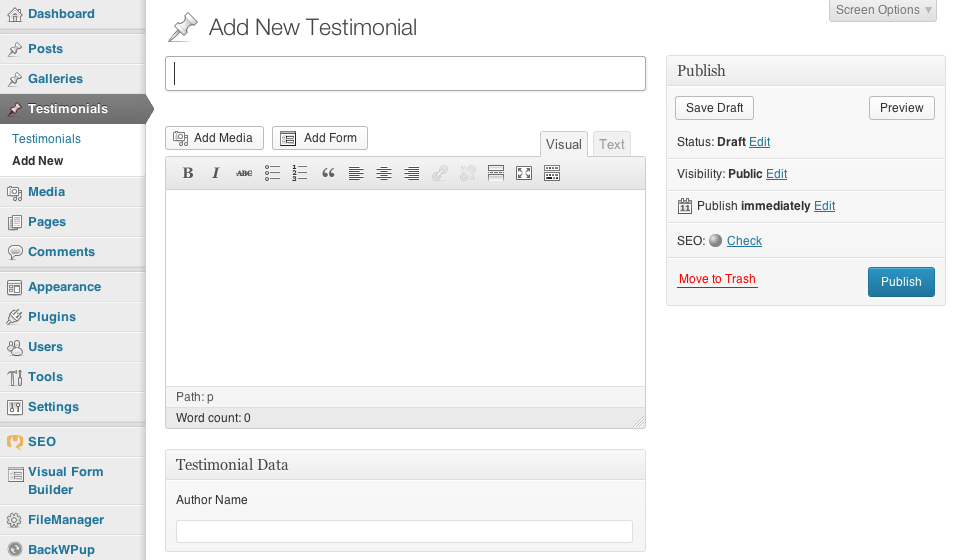
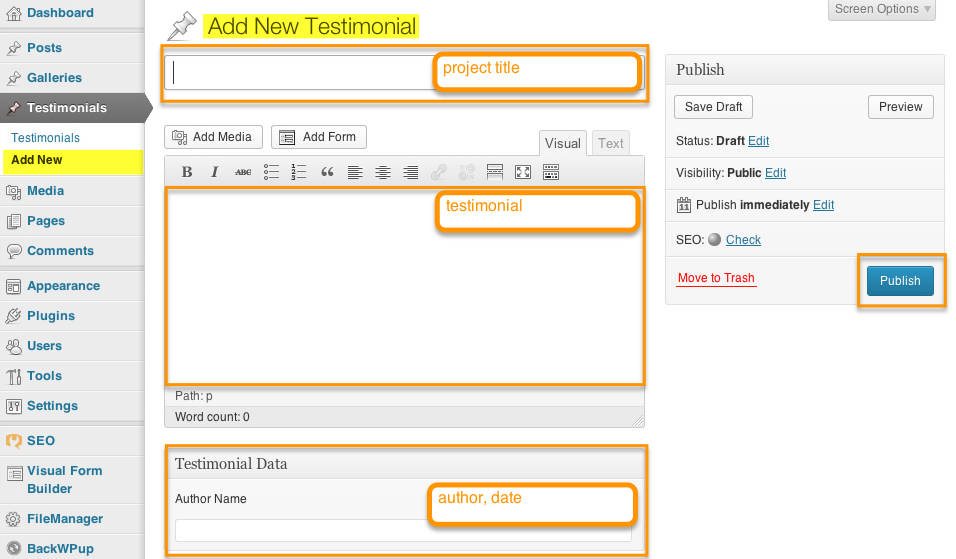
final content additions

diff --git a/index.html b/index.html
@@ -37,8 +37,8 @@
 					<li><a href="#content-types">content types</a></li>
 					<li><a href="#update">updating content</a></li>
 					<li><a href="#publish">publishing new content</a></li>
-					<li><a href="#media">media</a></li>
 					<li><a href="#custom">custom settings</a></li>
+					<li><a href="#goodluck">good luck ;)</a></li>
 				</ul>
 		</nav> <!-- END navigation -->	
 <!-- START  wrap -->
@@ -235,7 +235,7 @@
 				<p>Don't forget to save your changes within the gallery post after your edits!</p>
 				<h4>edit category description / image</h4>
 				<p>To change description or feature image of any given category, select "Gallery Categories", hover over the category to be edited and click 'edit'. In the editor, proceed to make your changes and click 'update' when finished.</p>
-				<p>Any changes made to the main category will be applied immediately.</p>
+				<p>Any changes made to the main category will be applied immediately and you can view the updates on the <a href="http://woodtechinteriors.co.uk/site/our-work/">page</a>.</p>
 				<figure>
 					<img src="images/gallery-cat-editor.png" width="937" height="684" alt="gallery categories" />
 				</figure>
@@ -251,13 +251,22 @@
 				In addition, the design adapts to smaller screens and currently relies on an even number of menu links in order to reflow well when viewed on smaller screens.</p>
 				<p>When updating the main pages (home/what we do/who we are) - you can simply add new content to the existing pages, to expand upon the text or add new updates. Fresh content would be great to add to the  testimonials in 'what our clients say' and 'our work' galleries. New content will appear automatically on the site after updated.</p>
 				<h3>adding new testimonial</h3>
+				<p>Any new testimonial needs to include a title (naming the project worked on), the testimonial itself and the author's name, followed by date. Once complete - click 'publish'. The new testimonial will be shown as first item on the <a href="http://woodtechinteriors.co.uk/site/testimonials/">page</a>.</p>
 				<figure>
-					<img src="images/add-new-testimonial.jpg" width="960" height="560" alt="add new testimonial" />
+					<img src="images/add-new-testimonial.png" width="956" height="559" alt="add new testimonial" />
 				</figure>
 				<h3>adding new content to the gallery</h3>
+				<p>The 'our work' section currently consists of the 4 categories you outlined. Each has its own feature image and description and is shown on the <a href="http://woodtechinteriors.co.uk/site/our-work/"> 'our work' </a> page as overview, each leading to its own gallery page of projects. <br />
+				You can expand on the currently shown pieces by adding a new gallery, or by adding more photos into the existing galleries (as outlined above).</p>
+				
+				<h4>adding a new project/gallery</h4>
+				<p>To add a new gallery, edit the highlighted panels to complete the setup and click 'publish' when complete.</p>
 				<figure>
-					<img src="images/add-new-gallery.jpg" width="960" height="720" alt="add new gallery" />
+					<img src="images/add-new-gallery.png" width="960" height="720" alt="add new gallery" />
 				</figure>
+				
+				<h4>adding a new gallery category</h4>
+				<p>To add a new gallery category, edit the highlighted panels to complete the setup and click 'publish' when complete.</p>
 				
 				<figure>
 					<img src="images/gallery-categories.png" width="960" height="710" alt="gallery categories" />
@@ -266,30 +275,29 @@
 <!-- END article -->
 
 <!-- START article -->
-<!--			<article id="media">				
-				<h2>working with media</h2>
-				<p>All uploaded ﬁles will be collected in the <strong>Media Library</strong> - where you can choose to view all ﬁles, add new ﬁles to the collection or delete existing ﬁles.</p>
-				<figure>
-					<img src="images/media-library.jpg" width="960" height="319" alt="media library" />
-				</figure>
-				<p>Though you can upload new ﬁles via the <strong>Media</strong> tab - you can also do this while editing the relevant page/post instead ~ which might be more convenient.</p>
-				<p>The <strong>Medial Library</strong> is also where you will be able to delete unused media such as the custom header photos, or old and outdated forms or leaﬂets.</p>
-				<p>You could of course keep older material online as backup or future reference. Your server hosting is what will determine how much storage space you have.</p>
-			</article> -->
-<!-- END article -->
-
-<!-- START article -->
 			<article id="custom">				
-				<h2>custom settings</h2>
+				<h2>custom settings</h2>visual-form-builder.png
 				<h3>Menu</h3>
-				<p><strong>!! warning !!</strong><br />
-				If the set structure is changed - the current design and colouring of the menu links will fail.</p>
+				<p><strong>!! caution !!</strong><br />
+				Be careful when editing the menu. The current setup should not need to be changed - other than a reshuffling of the order of links, or the link text itself. Removing links can make linked sections inaccessible.</p>
 				<figure>
 					<img src="images/menu.jpg" width="960" height="535" alt="menu" />
 				</figure>
-				
+				<h3>Visual Form Builder</h3>
+				<p>The forms on the site, for <a href="http://woodtechinteriors.co.uk/site/contact-us/"> 'contact us' </a> and the <a href="http://woodtechinteriors.co.uk/site/request-quote/"> 'request quote' </a> are using a plugin, called the Visual Form Builder. You can edit the existing forms via an easy to use interface, allowing you to customise where messages are sent, and what questions to ask. The settings are clear and likely to be self-explanatory. Please do get in touch if you need help :)</p>
+				<figure>
+					<img src="images/visual-form-builder.png" width="1105" height="746" alt="menu" />
+				</figure>
 			</article> 
 <!-- END article -->
+<!-- START article -->
+			<article>
+				<h1>happy editing</h1>
+				<p><strong>Alex, good luck ;)</strong><br />
+				I hope this manual is useful and sufficient. Please do feel free to get in touch if you get stuck or have any further questions - always happy to help :)</p>
+			</article> 
+<!-- END article -->
+
 
 		</div>
 <!-- END content wrap -->
